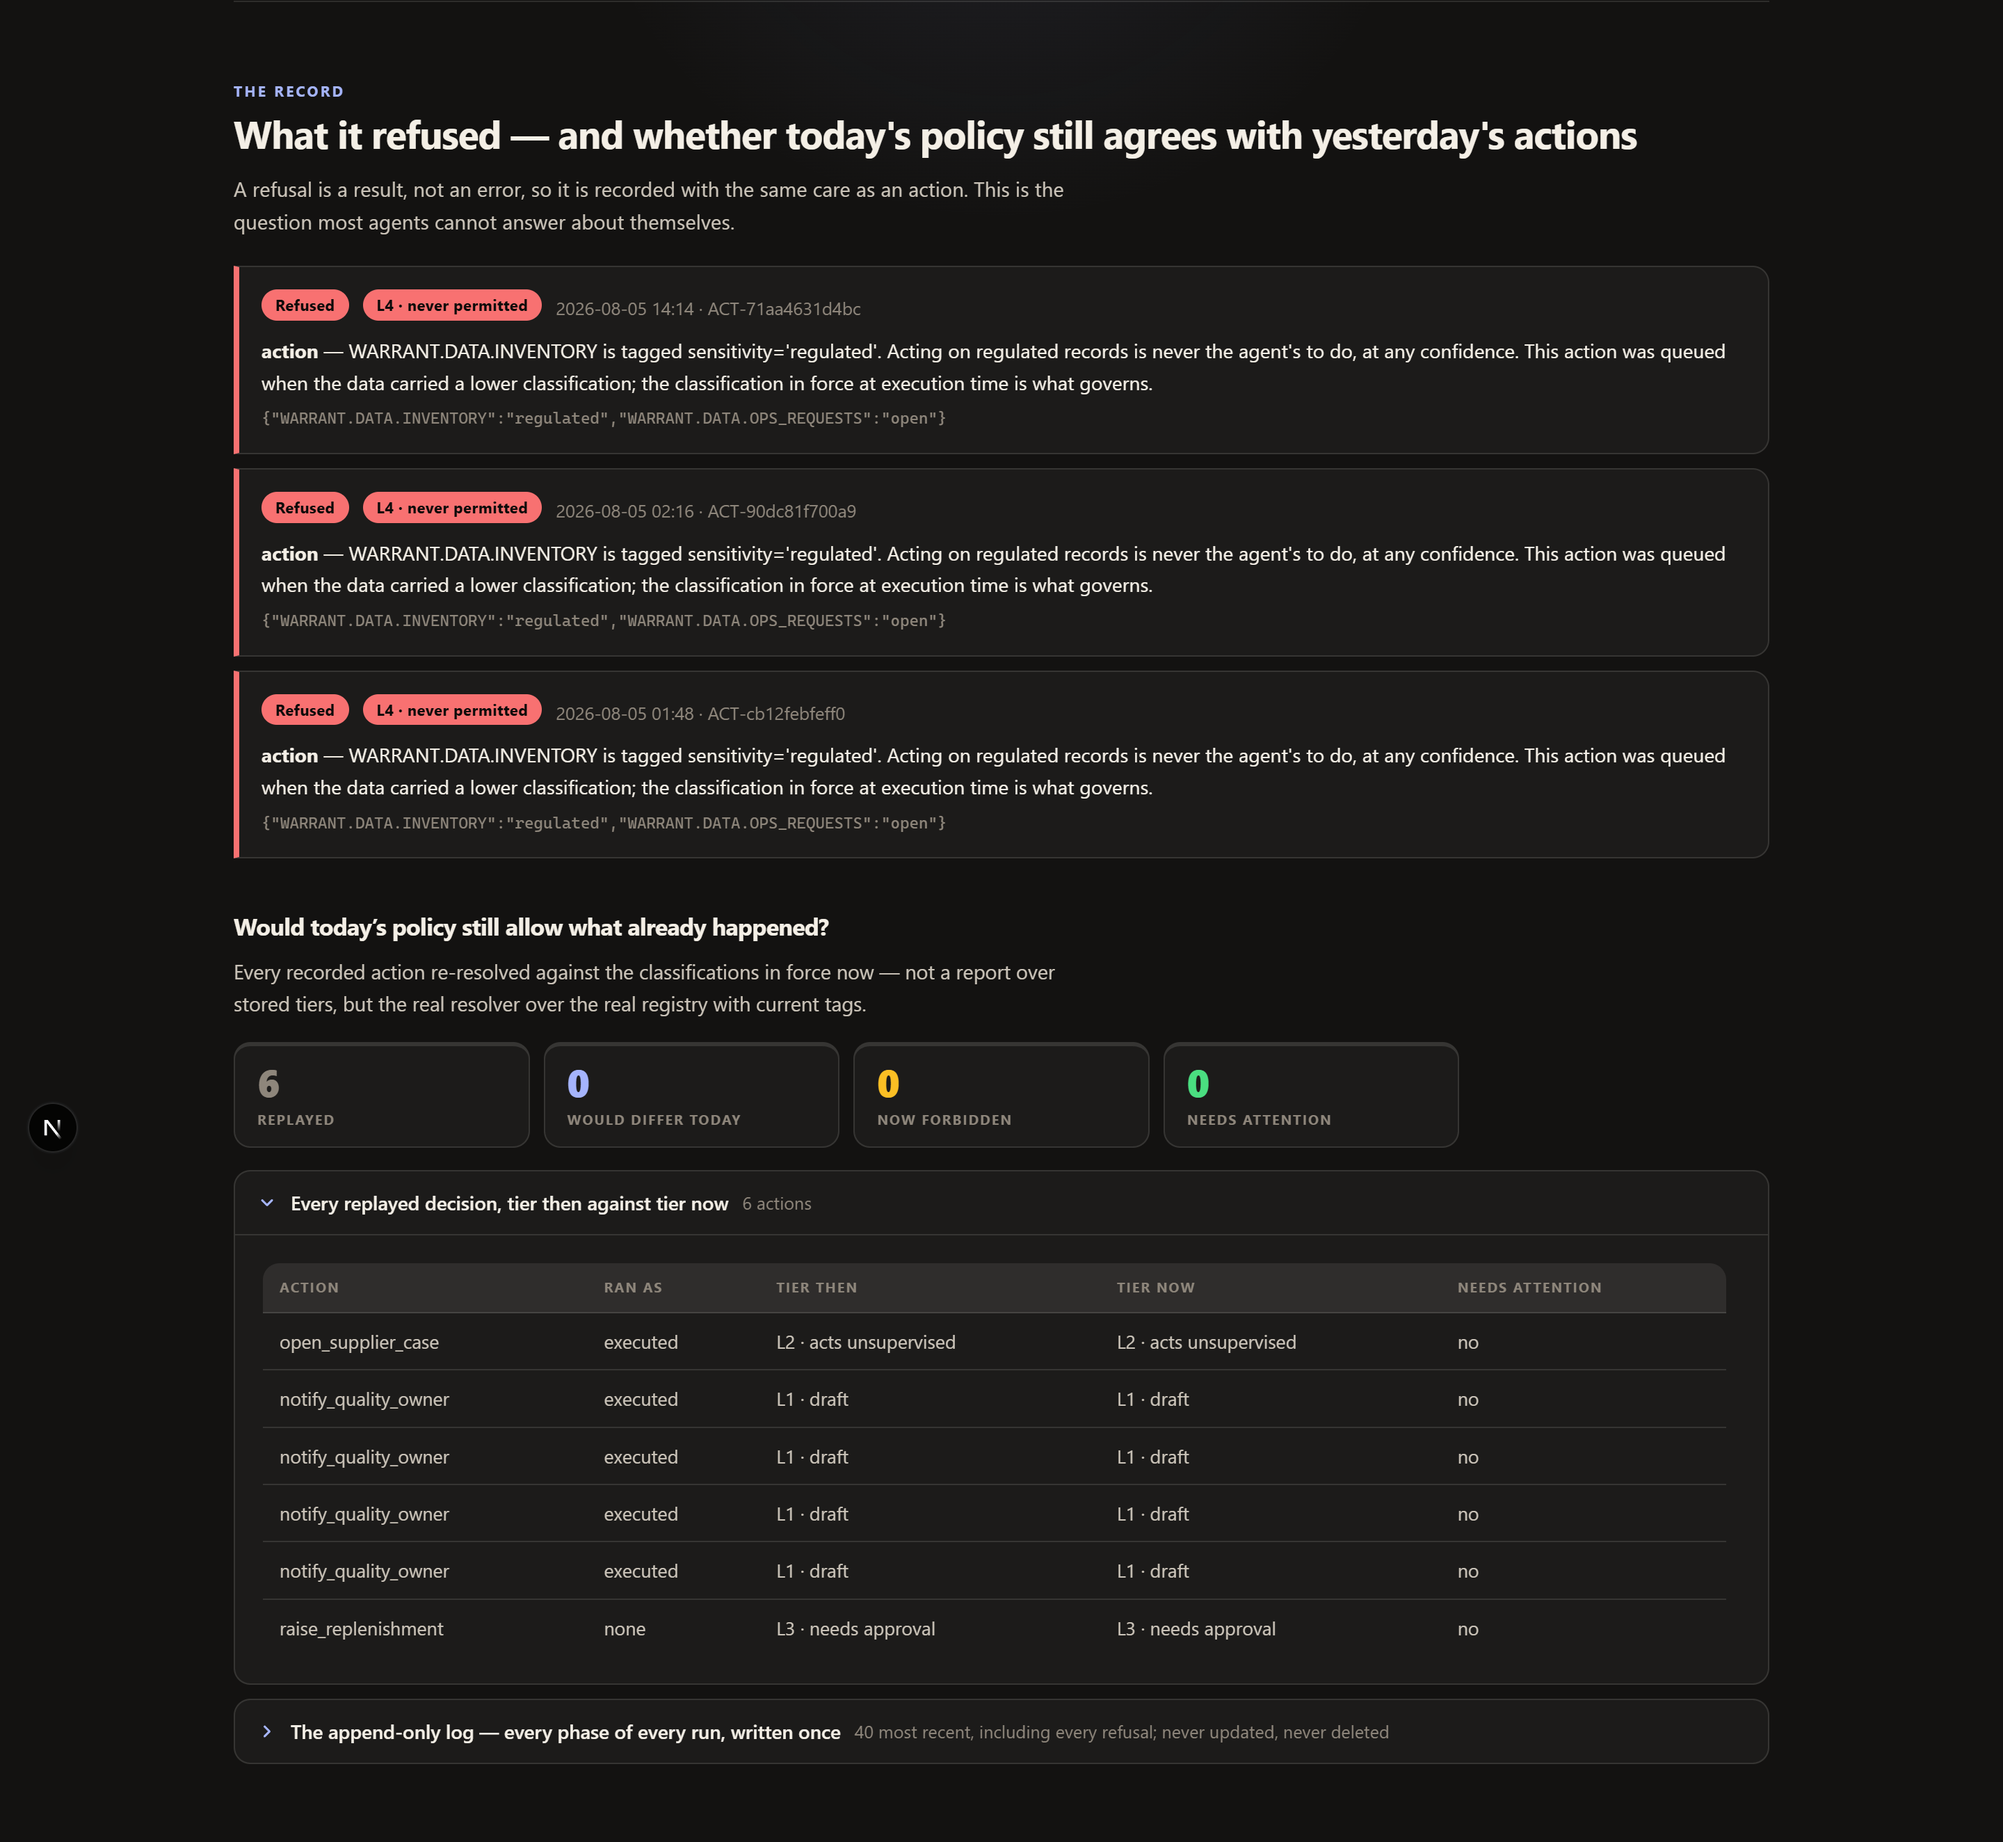
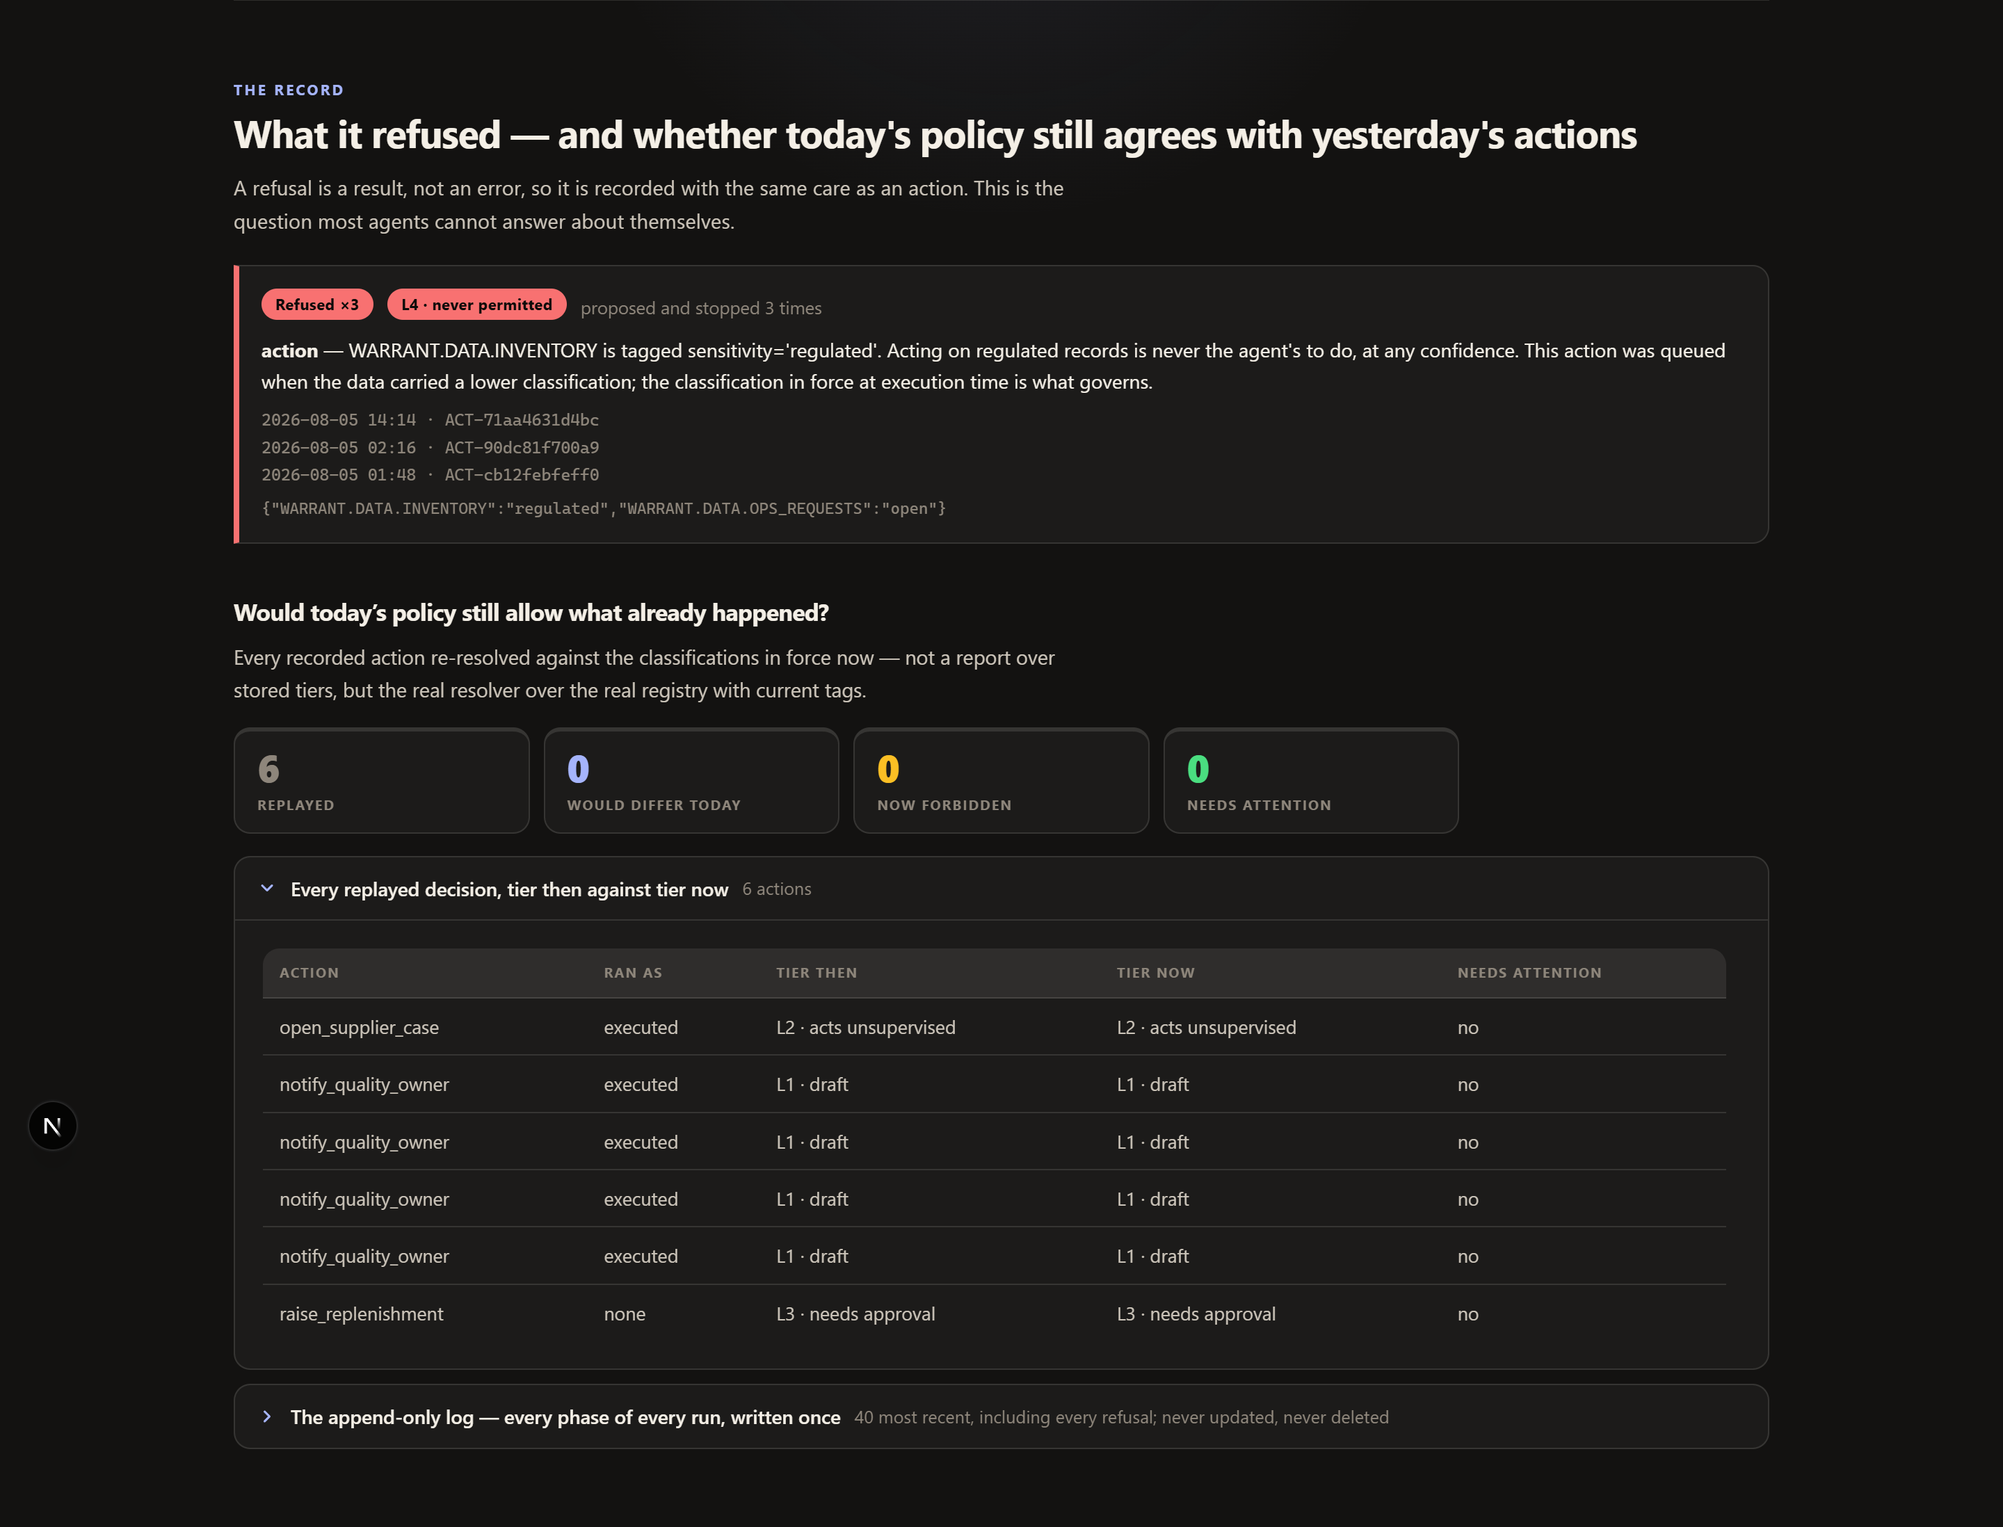
Group repeated refusals, and cap three runaway measures
Three refusals of the same action for the same reason were rendered as
three identical cards. Read that way they are repetition and a reviewer
skips all three; grouped, the repeat count is the information — this
action has been proposed and stopped again and again. One card now, with
a "Refused x3" chip and all three timestamps and action ids still
printed. The Refused tile above still counts events, not groups.

Then the prose, measured rather than guessed. Sentence length and line
length over the page's 59 real paragraphs:

  mean sentence      14.7 -> 14.5 words
  longest sentence   44 -> 35 words
  longest measure    174 -> 100 characters per line
  median measure     71 characters, which is where it should be

The 174 was the detection chart's caption running the full width of the
chart, and three paragraphs in the CLI section ran to about 130. All are
measure-capped now. The 44-word sentence in the eval panel is two.

An earlier aggregate pass claimed 17 over-long sentences and 7 over-wide
blocks. Both were artefacts: innerText reads a <ul> as one sentence, and
characters-per-line computed from container width counts a 30-character
timestamp sitting in a wide box as a 180-character line. Measured against
paragraphs only, with a Range for the real rendered width, there were
four defects and they are the four fixed here.

Screenshots re-shot for every section touched. The video script now has
the demo click the "The refusal that held" shortcut card instead of
[…]

diff --git a/web/app/page.tsx b/web/app/page.tsx
@@ -12,7 +12,7 @@
  * cached tag read would hide exactly that.
  */
 
-import { callJson, query } from "@/lib/snowflake";
+import { callJson, query, type Row } from "@/lib/snowflake";
 import {
   AUDIT,
   DECISIONS,
@@ -111,6 +111,28 @@ export default async function Page() {
   ]);
 
   const escalated = decisions.find((d) => str(d.DECISION) === "pending") ?? decisions[0];
+
+  /**
+   * Three refusals of the same action for the same reason are one finding recorded three times,
+   * not three findings. Rendered as three identical cards they read as repetition and a reviewer
+   * skips all of them; grouped, the repeat count is itself the information — this action has been
+   * proposed and stopped again and again.
+   *
+   * Grouped on exactly the text a reader would compare, so anything that genuinely differs still
+   * gets a card of its own. Nothing is dropped: every timestamp and action id is still printed,
+   * and the "Refused" tile above still counts events rather than groups.
+   */
+  const refusalGroups = refusals.reduce<{ key: string; row: Row; occurrences: string[] }[]>(
+    (acc, row) => {
+      const key = [row.ACTION_TYPE, row.TIER, row.RATIONALE, row.FOOTPRINT].join("");
+      const occurrence = `${str(row.WHEN_REFUSED)} · ${str(row.SUBJECT)}`;
+      const seen = acc.find((group) => group.key === key);
+      if (seen) seen.occurrences.push(occurrence);
+      else acc.push({ key, row, occurrences: [occurrence] });
+      return acc;
+    },
+    [],
+  );
   const counts = manifest.capabilities.reduce<Record<string, number>>((acc, c) => {
     acc[c.outcome] = (acc[c.outcome] ?? 0) + 1;
     return acc;
@@ -506,19 +528,34 @@ export default async function Page() {
             <Note tone="muted">No refusals recorded in the current run.</Note>
           ) : (
             <div className="space-y-2.5">
-              {refusals.map((row, index) => (
-                <Reveal key={index} delay={index * 55}>
+              {refusalGroups.map(({ key, row, occurrences }, index) => (
+                <Reveal key={key} delay={index * 55}>
                   <Card tone="bad">
                     <div className="flex flex-wrap items-center gap-x-1 gap-y-1">
-                      <Chip tone="bad">Refused</Chip>
+                      <Chip tone="bad">
+                        Refused{occurrences.length > 1 ? ` ×${occurrences.length}` : ""}
+                      </Chip>
                       <Chip tone="bad">{TIER_NAMES[num(row.TIER)] ?? str(row.TIER)}</Chip>
-                      <span className="text-[0.8rem] text-[var(--text-muted)]">
-                        {str(row.WHEN_REFUSED)} &middot; {str(row.SUBJECT)}
-                      </span>
+                      {occurrences.length === 1 ? (
+                        <span className="text-[0.8rem] text-[var(--text-muted)]">
+                          {occurrences[0]}
+                        </span>
+                      ) : (
+                        <span className="text-[0.8rem] text-[var(--text-muted)]">
+                          proposed and stopped {occurrences.length} times
+                        </span>
+                      )}
                     </div>
                     <div className="mt-1.5 text-[0.88rem] leading-relaxed">
                       <strong>{str(row.ACTION_TYPE)}</strong> &mdash; {str(row.RATIONALE)}
                     </div>
+                    {occurrences.length > 1 ? (
+                      <ul className="mt-2 list-none space-y-0.5 p-0 font-mono text-[0.74rem] text-[var(--text-muted)]">
+                        {occurrences.map((occurrence) => (
+                          <li key={occurrence}>{occurrence}</li>
+                        ))}
+                      </ul>
+                    ) : null}
                     {row.FOOTPRINT ? (
                       <div className="mt-1.5 break-all font-mono text-[0.72rem] text-[var(--text-muted)]">
                         {str(row.FOOTPRINT)}

diff --git a/web/components/coco.tsx b/web/components/coco.tsx
@@ -138,14 +138,16 @@ export function Coco() {
             <div className="text-[0.95rem] font-bold">
               No tool on this server accepts an authority tier.
             </div>
-            <p className="mt-1.5 text-[0.86rem] leading-relaxed text-[var(--text-soft)]">
+            {/* Measure capped across this panel. Full-bleed at 1152px these ran to about 130
+             *  characters a line — legible in isolation, tiring for three paragraphs running. */}
+            <p className="mt-1.5 max-w-[78ch] text-[0.86rem] leading-relaxed text-[var(--text-soft)]">
               A tool that took <code className="font-mono">tier</code> as a parameter would hand
               the model the one decision the whole design exists to keep away from it. Every tool
               resolves the tier itself, from the live tag. There is nothing to pass and no
               elevated value to ask for — so prompt-engineering the model into a higher authority
               has no parameter to aim at.
             </p>
-            <p className="mt-2.5 text-[0.86rem] leading-relaxed text-[var(--text-soft)]">
+            <p className="mt-2.5 max-w-[78ch] text-[0.86rem] leading-relaxed text-[var(--text-soft)]">
               That is an easy claim to make and an easy one to break by accident, so it is a test
               rather than a comment. It walks the live schema of every registered tool:
             </p>
@@ -164,7 +166,7 @@ export function Coco() {
       </div>
 
       <Panel title="Drive it yourself">
-        <p className="text-[0.86rem] leading-relaxed text-[var(--text-soft)]">
+        <p className="max-w-[78ch] text-[0.86rem] leading-relaxed text-[var(--text-soft)]">
           The agent has no privileged path of its own. What CoCo can do is exactly what the tool
           surface above allows, and the server tells the model so in its{" "}
           <code className="font-mono">instructions</code> before it calls anything:

diff --git a/web/components/tested.tsx b/web/components/tested.tsx
@@ -164,9 +164,9 @@ export function Tested() {
         <p className="mt-3.5 text-[0.82rem] leading-relaxed text-[var(--text-muted)]">
           <strong>Six of six is a small sample, and a perfect score should make you suspicious
           rather than impressed.</strong>{" "}
-          What it buys is a tripwire: the cases are chosen so that the plausible failures — acting
-          on a hold because it is old enough to feel urgent, replenishing stock that is already in
-          transit — each have a case that would catch them. Recorded in{" "}
+          What it buys is a tripwire. Each plausible failure has a case that would catch it: acting
+          on a hold because it is old enough to feel urgent, replenishing stock already in transit.
+          Recorded in{" "}
           <code className="font-mono">eval/scorecard.json</code> by a live run; CI verifies the
           recorded file rather than re-measuring, because CI has no Snowflake account.
         </p>

diff --git a/web/components/trend.tsx b/web/components/trend.tsx
@@ -297,7 +297,9 @@ export function OnTimeTrend({ rows }: { rows: Row[] }) {
         ))}
       </div>
 
-      <p className="mt-2 text-[0.75rem] leading-relaxed text-[var(--text-muted)]">
+      {/* Capped, not full-bleed. At the chart's width this ran to 174 characters a line, which is
+       *  more than twice a comfortable measure — the eye loses the start of the next line. */}
+      <p className="mt-2 max-w-[92ch] text-[0.75rem] leading-relaxed text-[var(--text-muted)]">
         Percent on time, bucketed by promised week. Hover the chart to read every supplier at that
         week; hover or tap a name to pick its line out of the pack. The dashed line is RB-001 §1 —
         20 points below {OTD_SUBJECT}&rsquo;s 90-day baseline of 90.8%. The first and last buckets

diff --git a/docs/deck_slides.md b/docs/deck_slides.md
@@ -284,13 +284,15 @@ something it cannot name.
 
 ## Screenshots — which file goes on which slide
 
-All re-captured from the deployed site after the final round of changes, at 1440 CSS px,
-`deviceScaleFactor: 2`, so every file is 2880px wide and survives a projector. Section shots are
-clipped to the section's measured bounding box, so nothing is cut mid-heading.
+All captured at 1440 CSS px, `deviceScaleFactor: 2`, so every file is 2880px wide and survives a
+projector. Section shots are clipped to the section's measured bounding box, so nothing is cut
+mid-heading. The ones the section restructure invalidated were re-shot against the build that
+produced this commit, so they show the nine-section page, the three shortcut cards under the
+tiles, and the folded reference tables.
 
 | File | Slide | Why this one |
 |---|---|---|
-| `web/hero.png` | 1 or 2 | The claim and the live tag resolution in one frame. Strongest single image in the set. |
+| `web/hero.png` | 1 or 2 | The claim and the live tag resolution in one frame, with the five headline tiles under them. Strongest single image in the set. |
 | `web/hero-light.png` | — | Light-theme alternative if the template's background fights the dark one. |
 | `web/story-workflow.png` | **3** | The seven stages and the three lanes in one picture — the closest thing to the mandated "architecture diagram" that is also the mechanism. |
 | `web/one-pass.png` | 4 | The detection chart. SUP-002's line going through the RB-001 threshold is the most legible "something happened here" in the deck. |

diff --git a/docs/video_script.md b/docs/video_script.md
@@ -253,8 +253,10 @@ uv run pytest tests/test_adversarial.py -q
 
 ## 3:30–4:00 · Close
 
-**DO:** Switch to the public viewer tab. Scroll past the hero so the three live tag rows are seen,
-stop at Evidence.
+**DO:** Switch to the public viewer tab, at the top. Pause one beat so the three live tag rows on
+the right are readable, then **click the second shortcut card, "The refusal that held"** — it jumps
+straight to Evidence. Clicking beats scrolling here: it is one motion instead of ten, and it shows
+the page was built for someone in a hurry.
 
 **SAY:**
 
